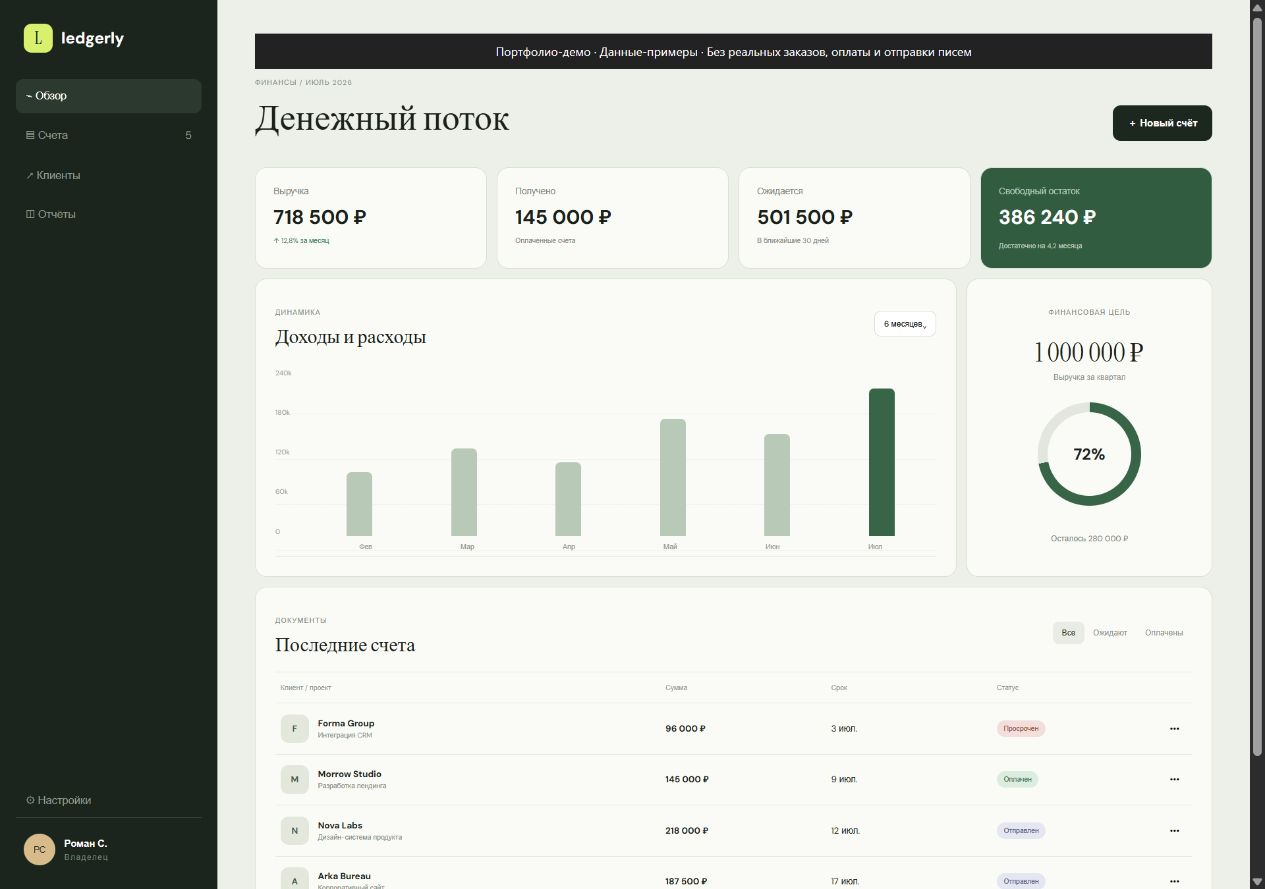
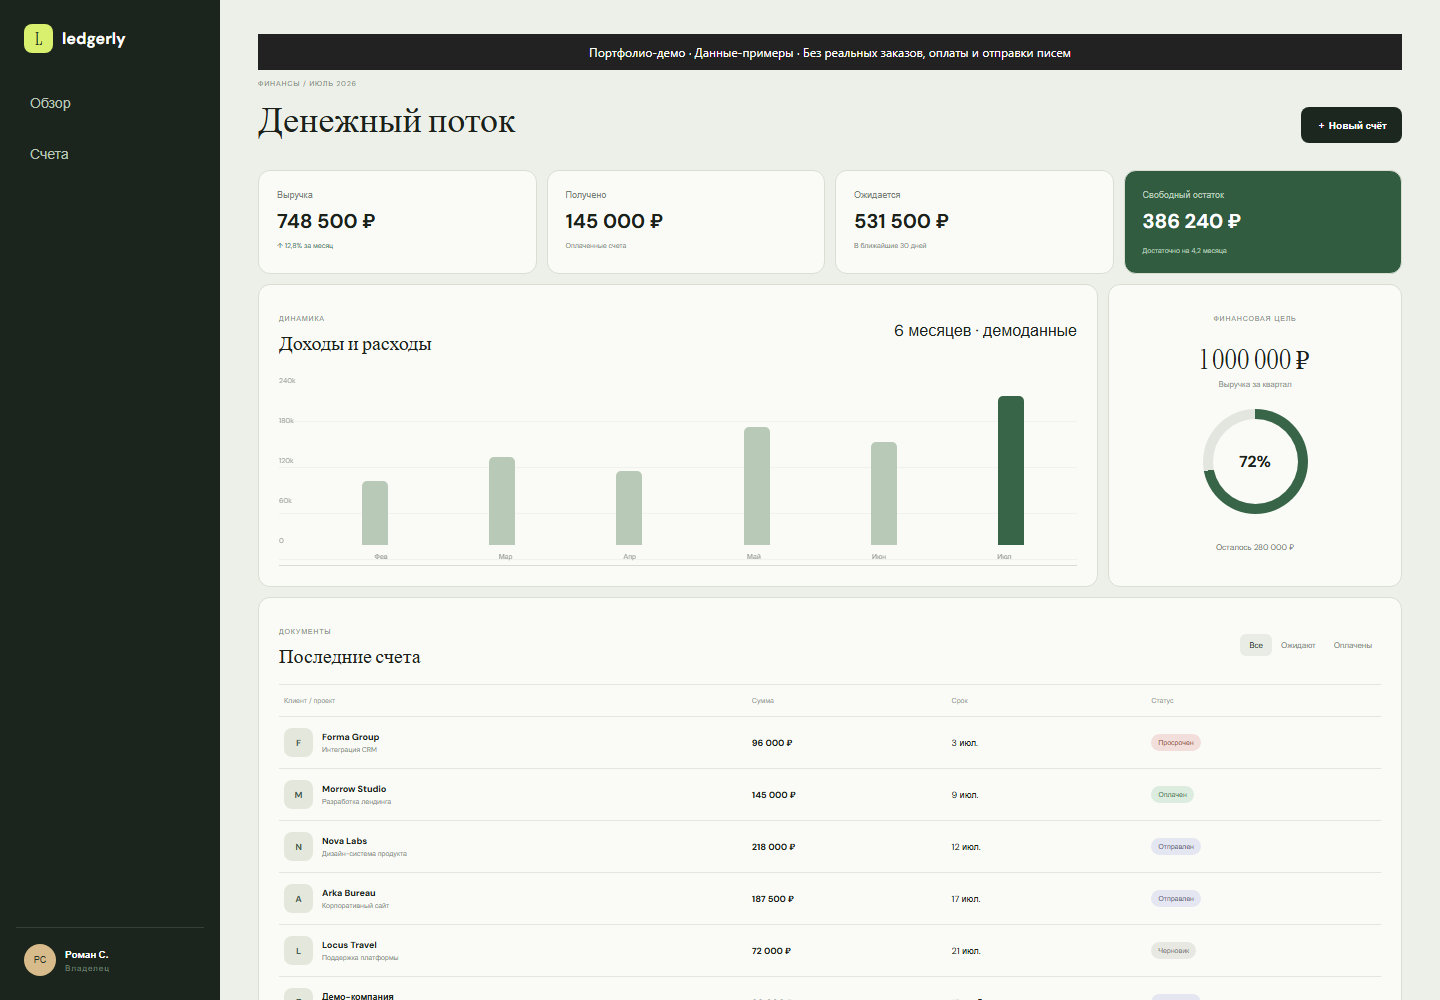
Complete responsive interactions and add browser regression checks

diff --git a/public/index.html b/public/index.html
@@ -1,2 +1,2 @@
 <!doctype html><html lang="ru"><head><meta charset="UTF-8"><meta name="viewport" content="width=device-width,initial-scale=1"><meta name="description" content="Ledgerly — контроль счетов и денежных потоков"><link rel="preconnect" href="https://fonts.googleapis.com"><link rel="preconnect" href="https://fonts.gstatic.com" crossorigin><link href="https://fonts.googleapis.com/css2?family=DM+Sans:wght@400;500;600;700&family=Instrument+Serif:ital@0;1&display=swap" rel="stylesheet"><link rel="stylesheet" href="styles.css"><title>Ledgerly — finance workspace</title></head><body>
-<aside><a class="logo"><b>L</b>ledgerly</a><nav><button class="active">⌁ Обзор</button><button>▤ Счета <i>5</i></button><button>↗ Клиенты</button><button>◫ Отчёты</button></nav><div class="aside-bottom"><button>⚙ Настройки</button><div class="user"><span>РС</span><p><b>Роман С.</b><small>Владелец</small></p></div></div></aside><main><div role="note" style="padding:9px 16px;background:#222;color:#fff;font:12px/1.5 system-ui;text-align:center">Портфолио-демо · Данные-примеры · Без реальных заказов, оплаты и отправки писем</div><header><div><small>ФИНАНСЫ / ИЮЛЬ 2026</small><h1>Денежный поток</h1></div><button class="new">＋ Новый счёт</button></header><section class="metrics"><article><span>Выручка</span><strong id="total">—</strong><small class="up">↑ 12,8% за месяц</small></article><article><span>Получено</span><strong id="paid">—</strong><small>Оплаченные счета</small></article><article><span>Ожидается</span><strong id="expected">—</strong><small>В ближайшие 30 дней</small></article><article class="balance"><span>Свободный остаток</span><strong>386 240 ₽</strong><i>Достаточно на 4,2 месяца</i></article></section><section class="content"><div class="panel chart-panel"><div class="panel-head"><div><small>ДИНАМИКА</small><h2>Доходы и расходы</h2></div><button>6 месяцев⌄</button></div><div class="chart"><div class="y"><span>240k</span><span>180k</span><span>120k</span><span>60k</span><span>0</span></div><div class="bars"><i style="--h:38%"></i><i style="--h:52%"></i><i style="--h:44%"></i><i style="--h:70%"></i><i style="--h:61%"></i><i class="current" style="--h:88%"></i></div><div class="months"><span>Фев</span><span>Мар</span><span>Апр</span><span>Май</span><span>Июн</span><span>Июл</span></div></div></div><div class="panel goal"><small>ФИНАНСОВАЯ ЦЕЛЬ</small><h2>1 000 000 ₽</h2><p>Выручка за квартал</p><div class="ring"><strong>72%</strong></div><span>Осталось 280 000 ₽</span></div></section><section class="panel invoices"><div class="panel-head"><div><small>ДОКУМЕНТЫ</small><h2>Последние счета</h2></div><div class="filters"><button class="active" data-status="all">Все</button><button data-status="sent">Ожидают</button><button data-status="paid">Оплачены</button></div></div><div class="table"><div class="tr th"><span>Клиент / проект</span><span>Сумма</span><span>Срок</span><span>Статус</span><span></span></div><div id="invoice-list"></div></div></section></main><dialog><form id="invoice-form"><button type="button" class="close">×</button><small>НОВЫЙ ДОКУМЕНТ</small><h2>Выставить счёт</h2><label>Клиент<input name="client" required placeholder="Название компании"></label><label>Проект<input name="title" required placeholder="Что было сделано"></label><div class="form-row"><label>Сумма<input name="amount" type="number" min="1" required placeholder="100000"></label><label>Оплатить до<input name="dueDate" type="date" required value="2026-07-20"></label></div><button class="submit">Создать счёт →</button></form></dialog><script src="app.js"></script></body></html>
+<aside><a class="logo"><b>L</b>ledgerly</a><nav><a href="#overview">Обзор</a><a href="#invoices">Счета</a></nav><div class="aside-bottom"><div class="user"><span>РС</span><p><b>Роман С.</b><small>Владелец</small></p></div></div></aside><main id="overview"><div role="note" style="padding:9px 16px;background:#222;color:#fff;font:12px/1.5 system-ui;text-align:center">Портфолио-демо · Данные-примеры · Без реальных заказов, оплаты и отправки писем</div><header><div><small>ФИНАНСЫ / ИЮЛЬ 2026</small><h1>Денежный поток</h1></div><button class="new">＋ Новый счёт</button></header><section class="metrics"><article><span>Выручка</span><strong id="total">—</strong><small class="up">↑ 12,8% за месяц</small></article><article><span>Получено</span><strong id="paid">—</strong><small>Оплаченные счета</small></article><article><span>Ожидается</span><strong id="expected">—</strong><small>В ближайшие 30 дней</small></article><article class="balance"><span>Свободный остаток</span><strong>386 240 ₽</strong><i>Достаточно на 4,2 месяца</i></article></section><section class="content"><div class="panel chart-panel"><div class="panel-head"><div><small>ДИНАМИКА</small><h2>Доходы и расходы</h2></div><span>6 месяцев · демоданные</span></div><div class="chart"><div class="y"><span>240k</span><span>180k</span><span>120k</span><span>60k</span><span>0</span></div><div class="bars"><i style="--h:38%"></i><i style="--h:52%"></i><i style="--h:44%"></i><i style="--h:70%"></i><i style="--h:61%"></i><i class="current" style="--h:88%"></i></div><div class="months"><span>Фев</span><span>Мар</span><span>Апр</span><span>Май</span><span>Июн</span><span>Июл</span></div></div></div><div class="panel goal"><small>ФИНАНСОВАЯ ЦЕЛЬ</small><h2>1 000 000 ₽</h2><p>Выручка за квартал</p><div class="ring"><strong>72%</strong></div><span>Осталось 280 000 ₽</span></div></section><section class="panel invoices" id="invoices"><div class="panel-head"><div><small>ДОКУМЕНТЫ</small><h2>Последние счета</h2></div><div class="filters"><button class="active" data-status="all">Все</button><button data-status="sent">Ожидают</button><button data-status="paid">Оплачены</button></div></div><div class="table"><div class="tr th"><span>Клиент / проект</span><span>Сумма</span><span>Срок</span><span>Статус</span><span></span></div><div id="invoice-list"></div></div></section></main><dialog><form id="invoice-form"><button type="button" class="close">×</button><small>НОВЫЙ ДОКУМЕНТ</small><h2>Выставить счёт</h2><label>Клиент<input name="client" required placeholder="Название компании"></label><label>Проект<input name="title" required placeholder="Что было сделано"></label><div class="form-row"><label>Сумма<input name="amount" type="number" min="1" required placeholder="100000"></label><label>Оплатить до<input name="dueDate" type="date" required ></label></div><button class="submit">Создать счёт →</button></form></dialog><script src="app.js"></script></body></html>

diff --git a/public/styles.css b/public/styles.css
@@ -1,1 +1,3 @@
 :root{font-family:'DM Sans',sans-serif;color:#1c211c;background:#edf0e8;--green:#386447;--lime:#d8f06d;--line:#d9ded3}*{box-sizing:border-box}body{margin:0;display:grid;grid-template-columns:220px 1fr;min-height:100vh}button,input{font:inherit}aside{position:sticky;top:0;height:100vh;padding:24px 16px;display:flex;flex-direction:column;background:#1b251d;color:#bbc6ba}.logo{display:flex;align-items:center;gap:9px;padding:0 8px 27px;color:white;font-weight:700}.logo b{display:grid;place-items:center;width:29px;height:29px;border-radius:8px;background:var(--lime);color:#1d2a20;font:400 18px 'Instrument Serif'}nav{display:grid;gap:5px}aside button{border:0;border-radius:8px;padding:10px;background:none;color:#8f9c90;text-align:left;font-size:11px;cursor:pointer}aside button.active,aside button:hover{background:#2c392e;color:white}aside button i{float:right;font-style:normal}.aside-bottom{margin-top:auto}.user{display:flex;align-items:center;gap:9px;padding:16px 8px 0;border-top:1px solid #354137}.user>span{display:grid;place-items:center;width:32px;height:32px;border-radius:50%;background:#d7bb8a;color:#283027;font-size:9px}.user p,.user b,.user small{display:block;margin:0}.user b{font-size:10px;color:#fff}.user small{font-size:8px;color:#778579;margin-top:2px}main{padding:34px 38px 60px;min-width:0}main>header{display:flex;justify-content:space-between;align-items:end;margin-bottom:27px}small{font-size:7px;letter-spacing:.12em;color:#899087}h1{margin:5px 0 0;font:400 36px 'Instrument Serif'}.new,.submit{border:0;border-radius:8px;background:#1c281f;color:white;padding:11px 15px;font-size:10px;font-weight:600;cursor:pointer}.metrics{display:grid;grid-template-columns:repeat(4,1fr);gap:10px}.metrics article,.panel{background:#fafbf7;border:1px solid var(--line);border-radius:12px}.metrics article{padding:18px}.metrics span,.metrics strong,.metrics small{display:block}.metrics span{color:#777f77;font-size:9px}.metrics strong{margin:7px 0;font-size:20px}.metrics small{font-size:7px;letter-spacing:0}.metrics .up{color:#418356}.metrics .balance{background:#315c40;color:white}.metrics .balance span{color:#b9cabd}.metrics .balance i{display:block;margin-top:12px;color:#b9cabd;font-size:7px;font-style:normal}.content{display:grid;grid-template-columns:2fr .7fr;gap:10px;margin:10px 0}.panel{padding:20px}.panel-head{display:flex;justify-content:space-between;align-items:center}.panel h2{margin:4px 0 0;font:400 20px 'Instrument Serif'}.panel-head>button{border:1px solid var(--line);background:white;border-radius:7px;padding:7px 9px;font-size:8px}.chart{position:relative;height:190px;margin-top:20px;padding:0 10px 20px 40px;border-bottom:1px solid var(--line);background:repeating-linear-gradient(#fff0 0 45px,#e7eae3 46px)}.y{position:absolute;left:0;top:0;bottom:20px;display:flex;flex-direction:column;justify-content:space-between;color:#9a9f98;font-size:7px}.bars{display:flex;align-items:end;justify-content:space-around;height:100%;gap:15px}.bars i{width:26px;height:var(--h);border-radius:5px 5px 0 0;background:#b9c9b8}.bars i.current{background:var(--green)}.months{display:flex;justify-content:space-around;margin-top:7px;color:#92988f;font-size:7px}.goal{text-align:center}.goal h2{margin-top:16px;font-size:27px}.goal p{margin:2px;color:#8c928a;font-size:8px}.ring{display:grid;place-items:center;width:105px;height:105px;margin:20px auto;border-radius:50%;background:conic-gradient(var(--green) 72%,#e2e6df 0);position:relative}.ring:after{content:'';position:absolute;inset:10px;border-radius:50%;background:#fafbf7}.ring strong{position:relative;z-index:1}.goal>span{font-size:8px;color:#737a72}.invoices{padding-bottom:10px}.filters button{border:0;background:none;padding:6px 9px;border-radius:6px;color:#858b83;font-size:8px;cursor:pointer}.filters button.active{background:#e8ece5;color:#263328}.table{margin-top:15px}.tr{display:grid;grid-template-columns:1.7fr .7fr .7fr .7fr 25px;gap:12px;align-items:center;padding:11px 5px;border-top:1px solid #e2e6df;font-size:9px}.th{color:#979c95;font-size:7px}.client{display:flex;align-items:center;gap:9px}.client i{display:grid;place-items:center;width:29px;height:29px;border-radius:8px;background:#e4e8dc;color:#46614d;font-style:normal;font-weight:700}.client b,.client small{display:block}.client small{margin-top:2px;letter-spacing:0}.badge{width:max-content;padding:4px 7px;border-radius:10px;font-size:7px}.badge-paid{background:#dcecdf;color:#3f754c}.badge-sent{background:#e4e6f1;color:#5b6183}.badge-overdue{background:#f2deda;color:#9a5144}.badge-draft{background:#e8e8e3;color:#777}.more{border:0;background:none}dialog{width:min(480px,calc(100% - 30px));border:0;border-radius:15px;padding:0;background:#f8f9f5;box-shadow:0 25px 90px #17201970}dialog::backdrop{background:#17201999;backdrop-filter:blur(4px)}dialog form{position:relative;display:grid;gap:13px;padding:27px}dialog h2{margin:0 0 10px;font:400 27px 'Instrument Serif'}dialog label{display:grid;gap:5px;font-size:8px;font-weight:600}dialog input{border:1px solid var(--line);border-radius:7px;padding:10px;background:white;outline:0}.form-row{display:grid;grid-template-columns:1fr 1fr;gap:10px}.close{position:absolute;right:18px;top:15px;border:0;background:none;font-size:22px}.submit{margin-top:8px}@media(max-width:900px){body{grid-template-columns:68px 1fr}.logo{font-size:0}.logo b{font-size:18px}aside nav button{font-size:0;text-align:center}aside nav button:first-letter{font-size:14px}.aside-bottom{display:none}.metrics{grid-template-columns:1fr 1fr}.content{grid-template-columns:1fr}.goal{display:none}}@media(max-width:600px){body{display:block}aside{position:fixed;z-index:4;left:0;right:0;top:auto;bottom:0;width:auto;height:58px;padding:8px;display:flex;flex-direction:row}.logo,.aside-bottom{display:none}aside nav{display:flex;width:100%;justify-content:space-around}aside nav button{width:25%}main{padding:25px 14px 85px}.metrics{grid-template-columns:1fr 1fr}.metrics article{padding:14px}.metrics strong{font-size:17px}.tr{grid-template-columns:1fr .7fr .7fr}.tr span:nth-child(3),.tr span:nth-child(5){display:none}.th span:nth-child(3),.th span:nth-child(5){display:none}.chart-panel{overflow:hidden}.bars{gap:7px}.bars i{width:18px}h1{font-size:31px}.new{font-size:0}.new:first-letter{font-size:15px}}
+
+nav a{display:block;color:inherit;text-decoration:none;padding:14px;font-size:14px;border-radius:8px}nav a:hover{background:#ffffff12}button:focus-visible,a:focus-visible{outline:3px solid #899e6d;outline-offset:3px}

diff --git a/public/app.js b/public/app.js
@@ -1,1 +1,6 @@
-const money=v=>`${new Intl.NumberFormat('ru-RU').format(v)} ₽`;const labels={paid:'Оплачен',sent:'Отправлен',overdue:'Просрочен',draft:'Черновик'};let status='all';async function load(){const [summary,invoices]=await Promise.all([fetch('/api/summary').then(r=>r.json()),fetch(`/api/invoices?status=${status}`).then(r=>r.json())]);total.textContent=money(summary.stats.total);paid.textContent=money(summary.stats.paid);expected.textContent=money(summary.stats.expected);document.querySelector('#invoice-list').innerHTML=invoices.map(i=>`<div class="tr"><span class="client"><i>${i.client[0]}</i><span><b>${i.client}</b><small>${i.title}</small></span></span><b>${money(i.amount)}</b><span>${new Date(i.due_date).toLocaleDateString('ru-RU',{day:'numeric',month:'short'})}</span><span class="badge badge-${i.status}">${labels[i.status]}</span><button class="more">•••</button></div>`).join('')}document.querySelectorAll('[data-status]').forEach(b=>b.onclick=()=>{document.querySelectorAll('[data-status]').forEach(x=>x.classList.remove('active'));b.classList.add('active');status=b.dataset.status;load()});const dialog=document.querySelector('dialog');document.querySelector('.new').onclick=()=>dialog.showModal();document.querySelector('.close').onclick=()=>dialog.close();document.querySelector('#invoice-form').onsubmit=async e=>{e.preventDefault();const d=new FormData(e.target);await fetch('/api/invoices',{method:'POST',headers:{'Content-Type':'application/json'},body:JSON.stringify({client:d.get('client'),title:d.get('title'),amount:Number(d.get('amount')),dueDate:d.get('dueDate'),status:'sent'})});dialog.close();e.target.reset();load()};load();
+const loadFeedback=document.createElement('p');loadFeedback.className='load-feedback';loadFeedback.setAttribute('role','status');loadFeedback.style.cssText='position:fixed;bottom:16px;left:16px;right:16px;z-index:9999;background:#fff8dd;color:#222;padding:12px 20px;margin:0;font:14px/1.5 system-ui;border-radius:8px';document.querySelector('main').prepend(loadFeedback);let lastLoadArgs=[];
+async function load(...args){lastLoadArgs=args;loadFeedback.hidden=false;loadFeedback.textContent='Загрузка данных…';try{await loadData(...args);loadFeedback.textContent='';loadFeedback.hidden=true;}catch(error){loadFeedback.textContent='Не удалось загрузить данные. ';const retry=document.createElement('button');retry.type='button';retry.textContent='Повторить загрузку';retry.onclick=()=>load(...lastLoadArgs);loadFeedback.append(retry);}}
+const escapeText=v=>String(v).replace(/[&<>"\']/g,c=>({"&":"&amp;","<":"&lt;",">":"&gt;",'"':"&quot;", "\'":"&#39;"}[c]));
+const money=v=>`${new Intl.NumberFormat('ru-RU').format(v)} ₽`;const labels={paid:'Оплачен',sent:'Отправлен',overdue:'Просрочен',draft:'Черновик'};let status='all';async function loadData(){const [summary,invoices]=await Promise.all([fetch('/api/summary').then(r=>{if(!r.ok)throw new Error('HTTP '+r.status);return r.json()}),fetch(`/api/invoices?status=${status}`).then(r=>{if(!r.ok)throw new Error('HTTP '+r.status);return r.json()})]);total.textContent=money(summary.stats.total);paid.textContent=money(summary.stats.paid);expected.textContent=money(summary.stats.expected);document.querySelector('#invoice-list').innerHTML=invoices.map(i=>`<div class="tr"><span class="client"><i>${escapeText(i.client[0])}</i><span><b>${escapeText(i.client)}</b><small>${escapeText(i.title)}</small></span></span><b>${money(i.amount)}</b><span>${new Date(i.due_date).toLocaleDateString('ru-RU',{day:'numeric',month:'short'})}</span><span class="badge badge-${i.status}">${labels[i.status]}</span><span></span></div>`).join('')}document.querySelectorAll('[data-status]').forEach(b=>b.onclick=()=>{document.querySelectorAll('[data-status]').forEach(x=>x.classList.remove('active'));b.classList.add('active');status=b.dataset.status;load()});const dialog=document.querySelector('dialog');document.querySelector('[name=dueDate]').value=new Date(Date.now()+7*86400000).toISOString().slice(0,10);document.querySelector('.new').onclick=()=>dialog.showModal();document.querySelector('.close').onclick=()=>dialog.close();document.querySelector('#invoice-form').onsubmit=async e=>{e.preventDefault();const d=new FormData(e.target);const response=await fetch('/api/invoices',{method:'POST',headers:{'Content-Type':'application/json'},body:JSON.stringify({client:d.get('client'),title:d.get('title'),amount:Number(d.get('amount')),dueDate:d.get('dueDate'),status:'sent'})});if(!response.ok){const error=await response.json();window.alert(error.message||'Не удалось сохранить счёт');return}dialog.close();e.target.reset();load()};load();
+
+for(const form of document.querySelectorAll('form')){const submit=form.onsubmit;if(!submit)continue;form.onsubmit=async event=>{event.preventDefault();const button=form.querySelector('button[type=submit],button.send,button:not([type])');if(button)button.disabled=true;try{await submit(event);}catch{let message=form.querySelector('[role=alert]');if(!message){message=document.createElement('p');message.setAttribute('role','alert');form.append(message);}message.textContent='Не удалось выполнить запрос. Повторите действие; введённые данные остаются в форме.';}finally{if(button)button.disabled=false;}};}

diff --git a/docs/VERIFICATION.md b/docs/VERIFICATION.md
@@ -1,8 +1,5 @@
-# Проверка версии
+# Проверка 24 октября 2026
 
-23 октября 2026.
+Установка зависимостей, существующие API-тесты и новые Playwright-сценарии завершились успешно. Браузер проверен на 1280 × 900 и 390 × 844: загрузка, ширина страницы, отказ API 503 и доступная кнопка повтора. В Nestly дополнительно проверен фильтр избранного.
 
-- `install`: успешно (exit code 0).
-- `test`: успешно (exit code 0).
-
-Зависимости установлены заново в отдельном checkout; `.venv`/`node_modules` не входят в репозиторий. Проверки выполнялись локально; актуальный результат CI виден во вкладке Actions. Нагрузочное тестирование и production-аудит не проводились.
+CI повторяет API и браузерные тесты. Не проводились нагрузочные испытания, проверка мобильных устройств и production-аудит. Данные и бизнес-показатели остаются демонстрационными, как указано в README.

diff --git a/README.md b/README.md
@@ -38,6 +38,15 @@ pnpm start
 - Банки, платежи, бухгалтерия, отчётность и выгрузки не подключены.
 - Нет авторизации; это не система учёта реальных финансов.
 
+## Проверка интерфейса
+
+Playwright проверяет компьютерную и мобильную версии, отсутствие горизонтального прокручивания и повтор загрузки после ответа API 503. Ошибка отправки формы сохраняет введённые данные.
+
+```bash
+pnpm exec playwright install chromium
+pnpm test:e2e
+```
+
 ## Подробности
 [API, конфигурация и исходные инструкции](docs/TECHNICAL.md).
 
